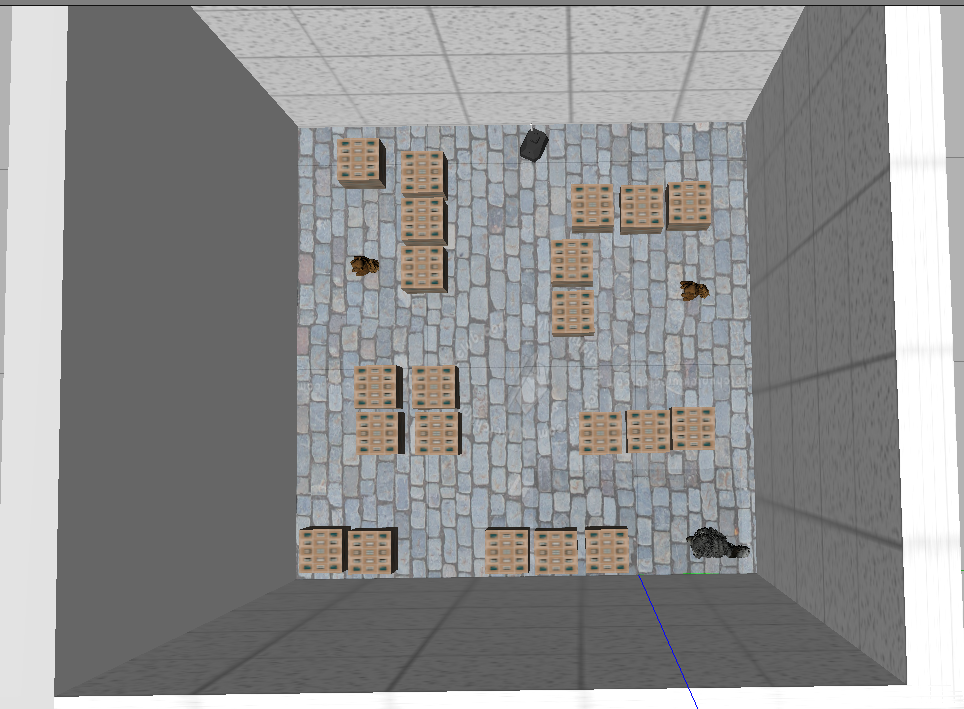
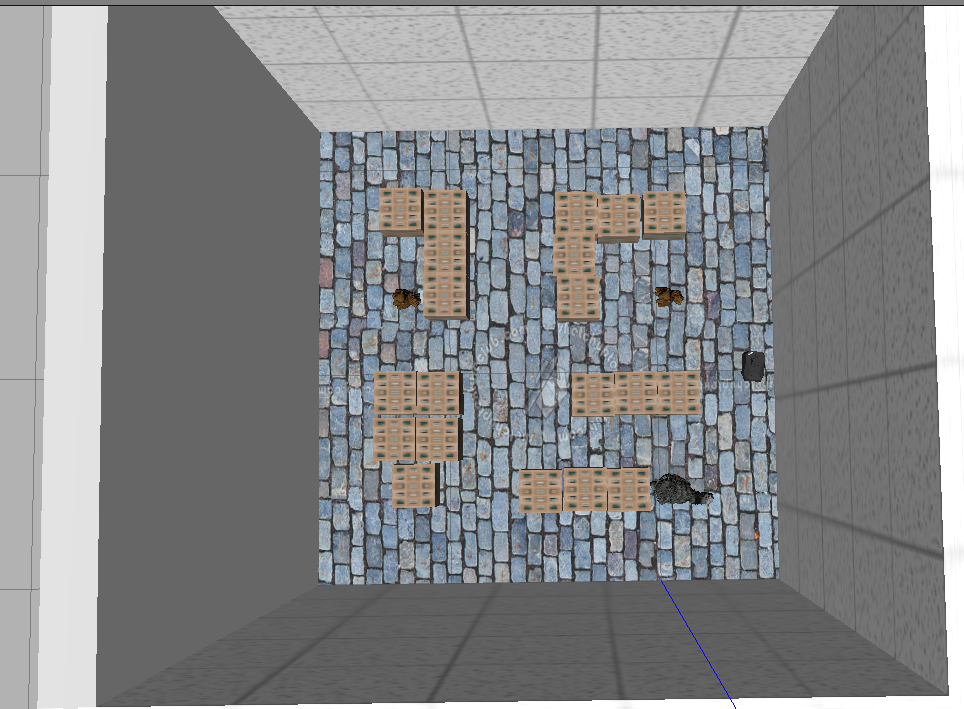
fix: tf del lidar feat: nueva simulación del laboratorio testeado con wall_follower

diff --git a/kalman_telemetry/src/telem.cpp b/kalman_telemetry/src/telem.cpp
@@ -59,7 +59,7 @@ public:
   {
     this->declare_parameter("lidar.model", std::vector<std::string>({"YDLIDAR-X4", "LDROBOT-LD19"}));
     this->declare_parameter("lidar.angle_offset_deg", std::vector<double>({0.0, 0.0}));
-    this->declare_parameter("lidar.clockwise", std::vector<bool>({true, true}));
+    this->declare_parameter("lidar.clockwise", std::vector<bool>({true, false}));
     this->declare_parameter("lidar.pub_scan_size", std::vector<int>({720, 360}));
     this->declare_parameter("lidar.range_min_meters", std::vector<double>({0.15, 0.15}));
     this->declare_parameter("lidar.range_max_meters", std::vector<double>({12.0, 6.0}));

diff --git a/kalman_gazebo/launch/simulation.launch.py b/kalman_gazebo/launch/simulation.launch.py
@@ -91,7 +91,10 @@ def make_nodes(context: LaunchContext, robot_model, use_sim_time, x_pose, y_pose
                 '-timeout', '180',
                 '-x', x_pose_str,
                 '-y', y_pose_str,
-                '-z', '0.01'
+                '-z', '0.01',
+                '-R', '0.0',
+                '-P', '0.0',
+                '-Y', '1.57079632679',
             ],
             output='screen'
         )
